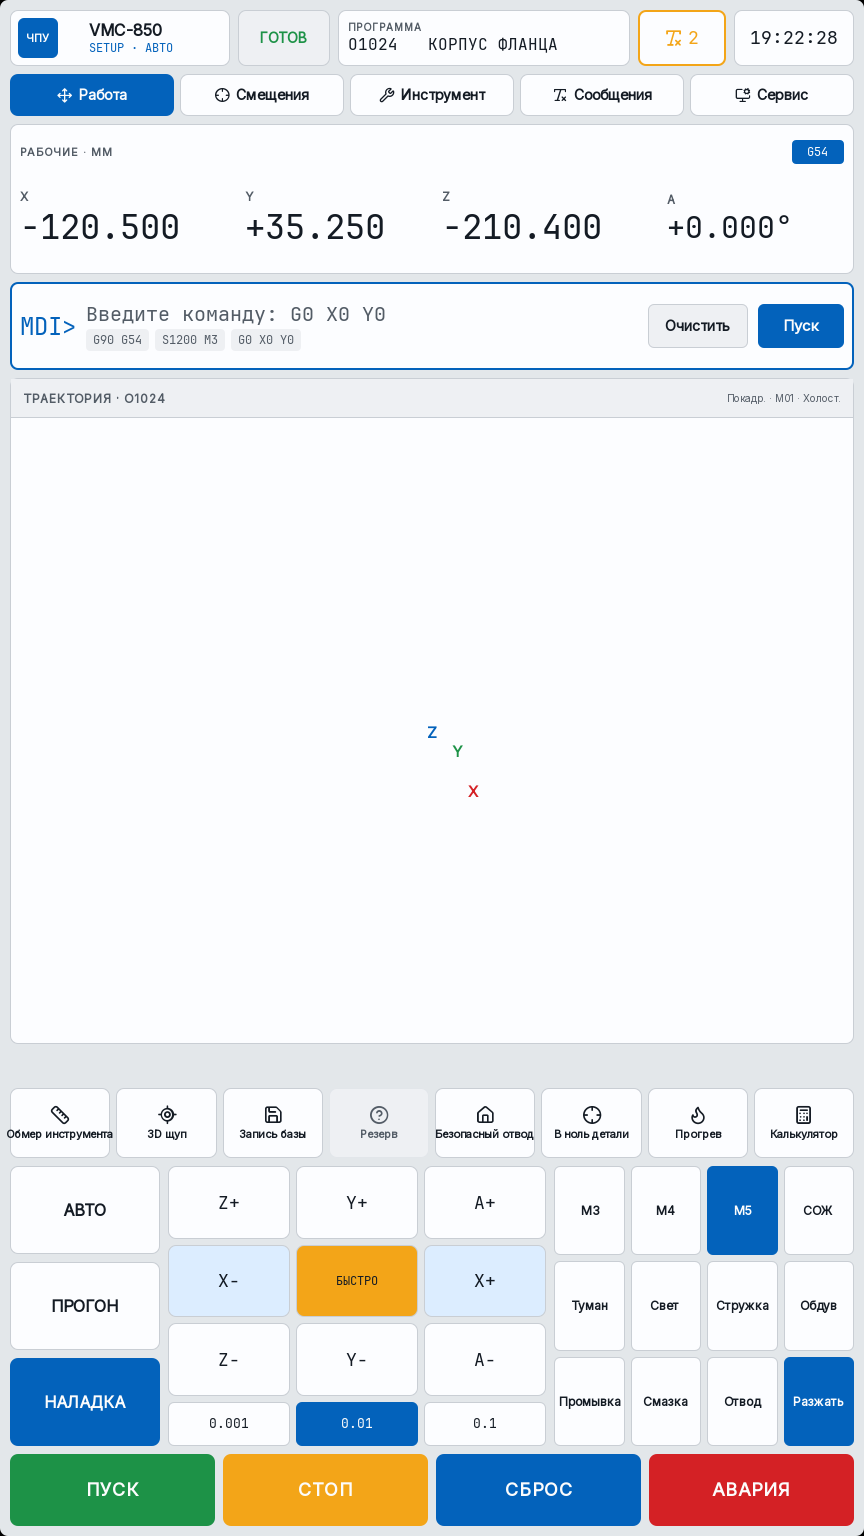
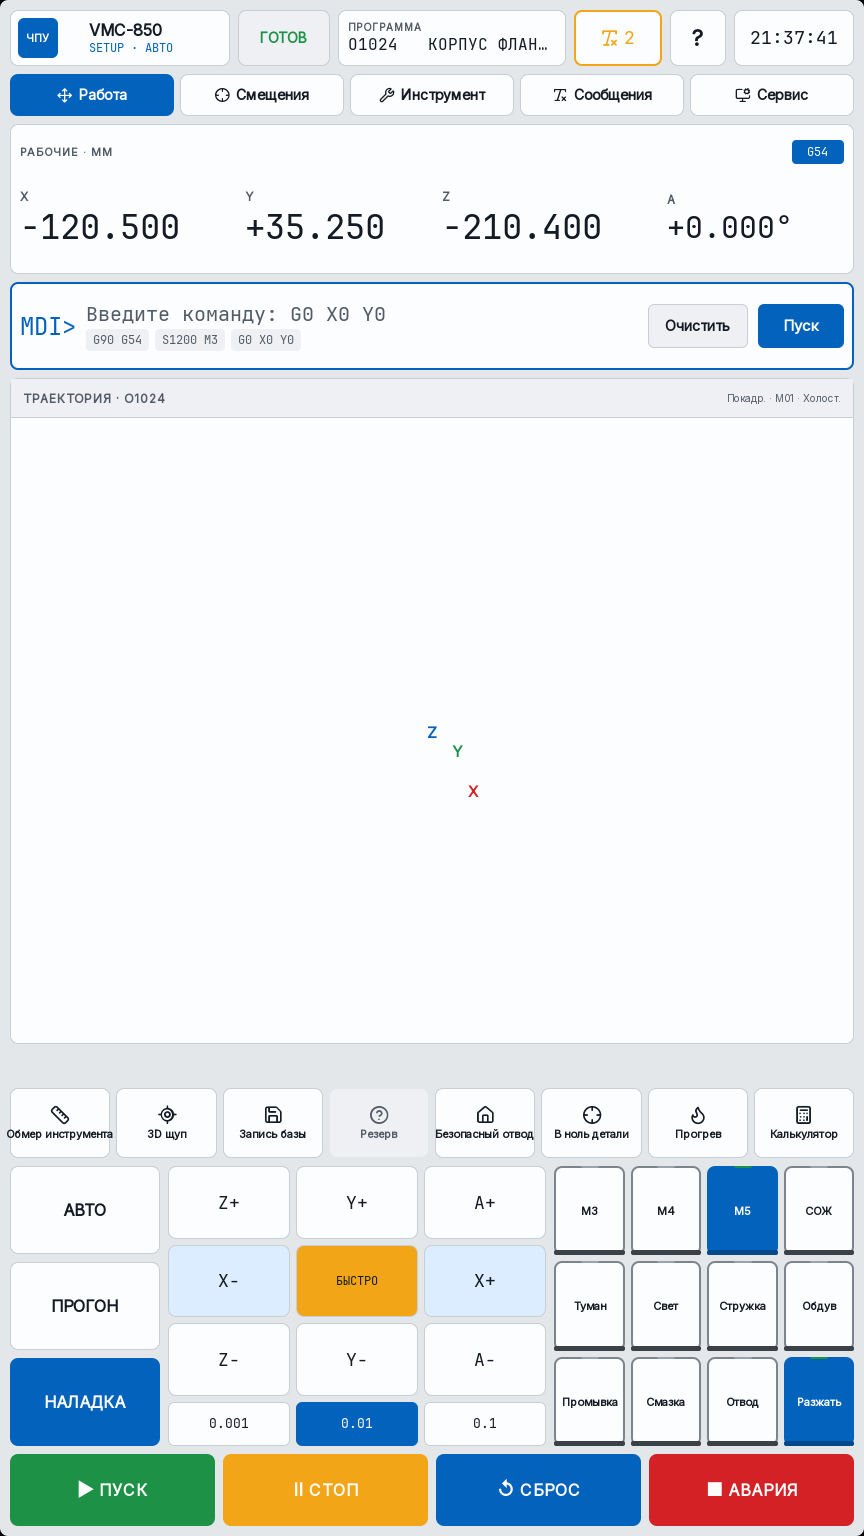
feat(qt-interface): introduce the shared React-style HwKey
HwKey.qml is the single key face: 8 px radius, 2 px dark edge, 5 px bottom face, state LED, icon/label/sub. It is applied to the touch and hybrid function blocks; the remaining deck keys can now be moved to the same component without restyling each delegate. Product 0.35.45, qt-interface 0.6.39.

diff --git a/apps/qt-interface/HybridDeck.qml b/apps/qt-interface/HybridDeck.qml
@@ -111,21 +111,19 @@ Rectangle {
                     { t: host && host.toolClamped ? "РАЗЖАТЬ" : "ЗАЖАТЬ", k: "clamp", on: host ? host.toolClamped : false },
                     { t: "СВЕТ", k: "light", on: host ? host.workLightOn : false }
                 ]
-                delegate: Rectangle {
-                    Layout.fillWidth: true; Layout.fillHeight: true; radius: 4
-                    color: modelData.on ? (host ? host.cPrimary : "#0362BB") : (host ? host.cMuted : "#EEF0F3")
-                    border.color: host ? host.cBorder : "#C9CED4"
-                    Text { anchors.centerIn: parent; text: modelData.t; color: modelData.on ? "#FFFFFF" : (host ? host.cForeground : "#141B24"); font.bold: true; font.pixelSize: 10 }
-                    MouseArea {
-                        anchors.fill: parent
-                        onClicked: {
-                            if (modelData.k === "coolant") host.toggleAux("coolant");
-                            else if (modelData.k === "spindle") host.spindleCommand(host.spindleOn ? "M05" : "M03");
-                            else if (modelData.k === "mdi") { host.setWorkplace("SETUP"); host.activeScreen = "pos"; }
-                            else if (modelData.k === "safe") host.goSafePoint();
-                            else if (modelData.k === "clamp") { host.toolClamped = !host.toolClamped; host.message = host.toolClamped ? "Инструмент зажат" : "Инструмент разжат"; }
-                            else if (modelData.k === "light") host.toggleAux("light");
-                        }
+                delegate: HwKey {
+                    Layout.fillWidth: true; Layout.fillHeight: true
+                    host: deck.host
+                    label: modelData.t
+                    active: modelData.on
+                    led: true
+                    onClicked: {
+                        if (modelData.k === "coolant") host.toggleAux("coolant");
+                        else if (modelData.k === "spindle") host.spindleCommand(host.spindleOn ? "M05" : "M03");
+                        else if (modelData.k === "mdi") { host.setWorkplace("SETUP"); host.activeScreen = "pos"; }
+                        else if (modelData.k === "safe") host.goSafePoint();
+                        else if (modelData.k === "clamp") { host.toolClamped = !host.toolClamped; host.message = host.toolClamped ? "Инструмент зажат" : "Инструмент разжат"; }
+                        else if (modelData.k === "light") host.toggleAux("light");
                     }
                 }
             }

diff --git a/apps/qt-interface/TouchUI.qml b/apps/qt-interface/TouchUI.qml
@@ -480,29 +480,20 @@ Item {
                         { t: "Отвод", k: "safe", on: false },
                         { t: host.toolClamped ? "Разжать" : "Зажать", k: "clamp", on: host.toolClamped }
                     ]
-                    delegate: Rectangle {
+                    delegate: HwKey {
                         Layout.fillWidth: true
                         Layout.fillHeight: true
-                        radius: 6
-                        color: modelData.on ? host.cPrimary : host.cCard
-                        border.color: modelData.on ? host.cPrimary : host.cBorder
-                        Text {
-                            anchors.centerIn: parent
-                            text: modelData.t
-                            color: modelData.on ? host.cPrimaryFg : host.cForeground
-                            font.bold: true
-                            font.pixelSize: 12
-                        }
-                        MouseArea {
-                            anchors.fill: parent
-                            onClicked: {
-                                if (modelData.k === "m3") host.spindleCommand("M03");
-                                else if (modelData.k === "m4") host.spindleCommand("M04");
-                                else if (modelData.k === "m5") host.spindleCommand("M05");
-                                else if (modelData.k === "safe") host.goSafePoint();
-                                else if (modelData.k === "clamp") { host.toolClamped = !host.toolClamped; host.message = host.toolClamped ? "Инструмент зажат" : "Инструмент разжат"; }
-                                else host.toggleAux(modelData.k);
-                            }
+                        host: touch.host
+                        label: modelData.t
+                        active: modelData.on
+                        led: true
+                        onClicked: {
+                            if (modelData.k === "m3") host.spindleCommand("M03");
+                            else if (modelData.k === "m4") host.spindleCommand("M04");
+                            else if (modelData.k === "m5") host.spindleCommand("M05");
+                            else if (modelData.k === "safe") host.goSafePoint();
+                            else if (modelData.k === "clamp") { host.toolClamped = !host.toolClamped; host.message = host.toolClamped ? "Инструмент зажат" : "Инструмент разжат"; }
+                            else host.toggleAux(modelData.k);
                         }
                     }
                 }

diff --git a/apps/qt-interface/HwKey.qml b/apps/qt-interface/HwKey.qml
@@ -1,0 +1,71 @@
+import QtQuick
+
+// The single key style of the product. Mirrors the React hardware key: 8 px radius, a thick dark
+// edge with a heavier bottom face, an optional LED, icon and a two-line caption. Layout size is
+// supplied by the caller through Layout attached properties.
+Rectangle {
+    id: key
+    property Item host
+    property string label: ""
+    property string sub: ""
+    property string icon: ""
+    property bool active: false
+    property bool led: false
+    property color capColor: host ? host.cCard : "#FCFDFF"
+    property color activeColor: host ? host.cPrimary : "#0362BB"
+    property color ink: host ? host.cForeground : "#141B24"
+    property color activeInk: host ? host.cPrimaryFg : "#FCFCFC"
+    property color edge: "#7C858E"
+    signal clicked()
+
+    radius: 8
+    color: active ? activeColor : capColor
+    border.color: active ? (host ? host.cPrimary : "#0362BB") : edge
+    border.width: 2
+    clip: true
+
+    Rectangle {
+        anchors.left: parent.left
+        anchors.right: parent.right
+        anchors.bottom: parent.bottom
+        height: 5
+        color: key.active ? Qt.darker(key.activeColor, 1.35) : "#3A4148"
+        radius: 2
+    }
+
+    Rectangle {
+        visible: key.led
+        width: 18; height: 5; radius: 2
+        anchors.horizontalCenter: parent.horizontalCenter
+        anchors.top: parent.top
+        anchors.topMargin: -3
+        color: key.active ? (host ? host.cSuccess : "#1D9247") : "#9AA3AD"
+    }
+
+    Column {
+        anchors.centerIn: parent
+        spacing: 1
+        Text {
+            anchors.horizontalCenter: parent.horizontalCenter
+            visible: key.icon !== ""
+            text: key.icon
+            color: key.active ? key.activeInk : key.ink
+            font.family: "lucide"; font.pixelSize: 18
+        }
+        Text {
+            anchors.horizontalCenter: parent.horizontalCenter
+            text: key.label
+            color: key.active ? key.activeInk : key.ink
+            font.bold: true; font.pixelSize: 11
+        }
+        Text {
+            anchors.horizontalCenter: parent.horizontalCenter
+            visible: key.sub !== ""
+            text: key.sub
+            color: key.active ? key.activeInk : key.ink
+            opacity: 0.75; font.pixelSize: 8; font.family: host ? host.fontMono : "monospace"
+        }
+    }
+
+    MouseArea { anchors.fill: parent; onClicked: key.clicked() }
+}

diff --git a/apps/qt-interface/main.cpp b/apps/qt-interface/main.cpp
@@ -111,7 +111,7 @@ int main(int argc, char *argv[])
 {
     QGuiApplication app(argc, argv);
     app.setApplicationName(QStringLiteral("Lynx Touch"));
-    app.setApplicationVersion(QStringLiteral("0.6.38"));
+    app.setApplicationVersion(QStringLiteral("0.6.39"));
 
     const QString root = repoRoot();
     const QString mainFile = root + QStringLiteral("/apps/qt-interface/main.qml");

diff --git a/README.md b/README.md
@@ -12,7 +12,7 @@
 </p>
 
 <p align="center">
-  <img alt="Версия" src="https://img.shields.io/badge/версия-0.35.44-blue">
+  <img alt="Версия" src="https://img.shields.io/badge/версия-0.35.45-blue">
   <img alt="Лицензия" src="https://img.shields.io/badge/лицензия-Apache--2.0-green">
   <img alt="Платформы" src="https://img.shields.io/badge/платформы-Windows%20%7C%20Linux-lightgrey">
   <img alt="Стек" src="https://img.shields.io/badge/стек-React%20%7C%20Qt%2FQML%20%7C%20C%2B%2B%2FOCCT-informational">
@@ -44,12 +44,12 @@ QtQuick3D и OpenCASCADE.
 ## 🧩 Состав
 
 **Lynx Touch** — продукт из пяти независимо версионируемых проектов (манифест — [`projects.json`](projects.json)).
-Версия продукта — `0.35.44` ([`VERSION`](VERSION)); правила ведения — [`VERSIONING.md`](VERSIONING.md).
+Версия продукта — `0.35.45` ([`VERSION`](VERSION)); правила ведения — [`VERSIONING.md`](VERSIONING.md).
 
 | Проект | Версия | Стек | Что это |
 |---|---|---|---|
 | **react-interface** — [панель оператора](apps/react-interface) | `0.24.2` | Next.js · React · TypeScript | Основной интерфейс: экраны, логика станка, сенсорный и панельный режимы |
-| **qt-interface** — [Qt-порт](apps/qt-interface) | `0.6.38` | QML · C++ | Перенос интерфейса на Qt/QML (`main.qml`) и отдельное окно `lynx-panel.exe` для отладки |
+| **qt-interface** — [Qt-порт](apps/qt-interface) | `0.6.39` | QML · C++ | Перенос интерфейса на Qt/QML (`main.qml`) и отдельное окно `lynx-panel.exe` для отладки |
 | **gcode-viewer** — [3D-вьювер УП](modules/gcode-viewer) | `0.58.9` | QtQuick3D · C++ · OCCT | Траектория, деталь, инструмент, коллизии, поле съёма |
 | **cad-testdata** — [тестовые данные](data/cad-testdata) | `0.5.1` | данные · постпроцессор | Тестовые УП/модели и постпроцессор с тегами `UI_*` |
 | **quickprog** — [демо быстрого программирования](apps/quickprog) | `0.2.1` | C++ · stdlib | Операции (торцевание, карманы, сверление) → ходы → плоская УП с тегами `UI_*`; консоль, без Qt |

diff --git a/VERSIONING.md b/VERSIONING.md
@@ -1,7 +1,7 @@
 # Руководство по версионированию и внесению изменений
 
 Этот документ — «гид»: как вносить изменения и вести версии в проекте
-**CNC Панель оператора**. Текущая версия — **0.35.44**.
+**CNC Панель оператора**. Текущая версия — **0.35.45**.
 
 Термины: словарь для человека — [`ROLES.md`](ROLES.md), раздел 9; в тексте термин расшифрован при первом
 употреблении (`AI_WORKFLOW.md`, раздел 0.2).
@@ -34,8 +34,8 @@
 Версия каждого проекта — в `projects.json` (`projects[].version`) и, где есть,
 в манифесте проекта (`package.json`, `modules/gcode-viewer/VERSION`).
 
-Текущее состояние: **продукт 0.35.44**; `react-interface` — **0.24.2**,
-`gcode-viewer` — **0.58.9**, `qt-interface` — **0.6.38**, `cad-testdata` — **0.5.1**, `quickprog` — **0.2.1**.
+Текущее состояние: **продукт 0.35.45**; `react-interface` — **0.24.2**,
+`gcode-viewer` — **0.58.9**, `qt-interface` — **0.6.39**, `cad-testdata` — **0.5.1**, `quickprog` — **0.2.1**.
 
 ### Опытные ветки и документация планов
 

diff --git a/docs/PORT-QML.en.md b/docs/PORT-QML.en.md
@@ -6,7 +6,7 @@ code and its run; this file holds the intent, anchors in both trees and acceptan
 
 This edition was merged on 31.10.2026: the inventory and anchors come from the previous edition,
 the order of work, acceptance and decisions come from the lead. State at the day of the edition:
-React `0.24.2` (product `0.35.44`), Qt `0.6.38`.
+React `0.24.2` (product `0.35.45`), Qt `0.6.39`.
 
 **Roles fixed (01.11.2026).** The real controller runs **Qt — it is the product**. React was a demo
 stage: after the start and CAM-insert fixes it is **frozen** — no new features are developed there.
@@ -49,7 +49,7 @@ dispatcher's decisions are in §7.
 
 React anchors are a file and a symbol; line numbers are as of 31.10.2026. "W" is the wave in §4.
 
-| Panel node | React `0.24.2` (source) | Qt `0.6.38` (`main.qml`) | Gap | W |
+| Panel node | React `0.24.2` (source) | Qt `0.6.39` (`main.qml`) | Gap | W |
 |---|---|---|---|---|
 | Workplaces | `types.ts` (`SETUP`/`TEST`/`RUN`), `WORKPLACE_LABEL` (`data.ts`), `SET_WORKPLACE` (`nav.ts`) | none; only `machineMode` (`:24`) and `modeCycle` | no workplaces | C |
 | Tabs | 5: `TABS`/`TAB_LABEL` (`types.ts`) Work, Offsets, Tool, Messages, Service; Work merges `pos` and `prog` (`tabOfScreen`) | 7: `tab0`..`tab6` (`:967-1256`), Position and Program separate, plus 3D | +2 tabs | B |

diff --git a/CHANGELOG.md b/CHANGELOG.md
@@ -5,6 +5,19 @@
 
 Формат и правила — в [`VERSIONING.md`](VERSIONING.md). Термины — [`ROLES.md`](ROLES.md), раздел 9.
 
+## 0.35.45 - 2026-11-02
+
+### Добавлено
+- **Единый стиль клавиш `HwKey.qml`.** Скругление 8, тёмный кант 2 px, нижняя грань 5 px,
+  светодиод состояния, иконка/подпись/подстрока; применяется в функциях сенсорной колоды и
+  гибрида. Это первый шаг к полному React-стилю остальных кнопок.
+
+### Проверки
+- `check-qt-panel` — OK; полный сторож — OK; снимок сенсора обновлён.
+
+### Версии
+- продукт — `0.35.45`; `qt-interface` — `0.6.39`; остальные без изменений.
+
 ## 0.35.44 - 2026-11-02
 
 ### Изменено
